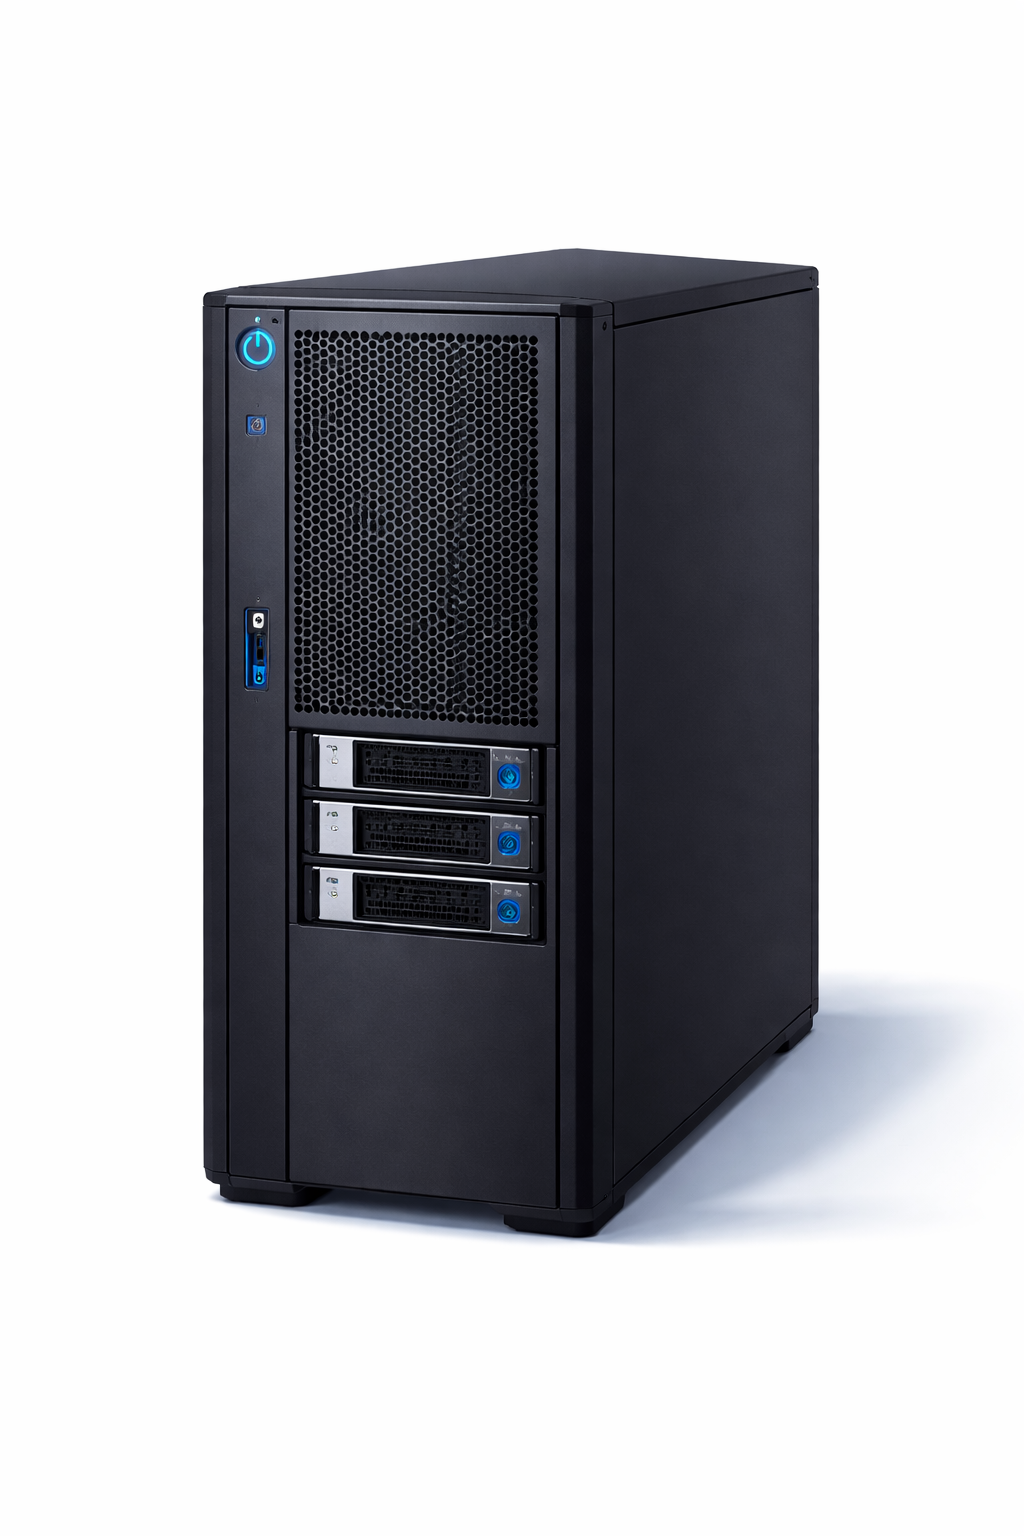
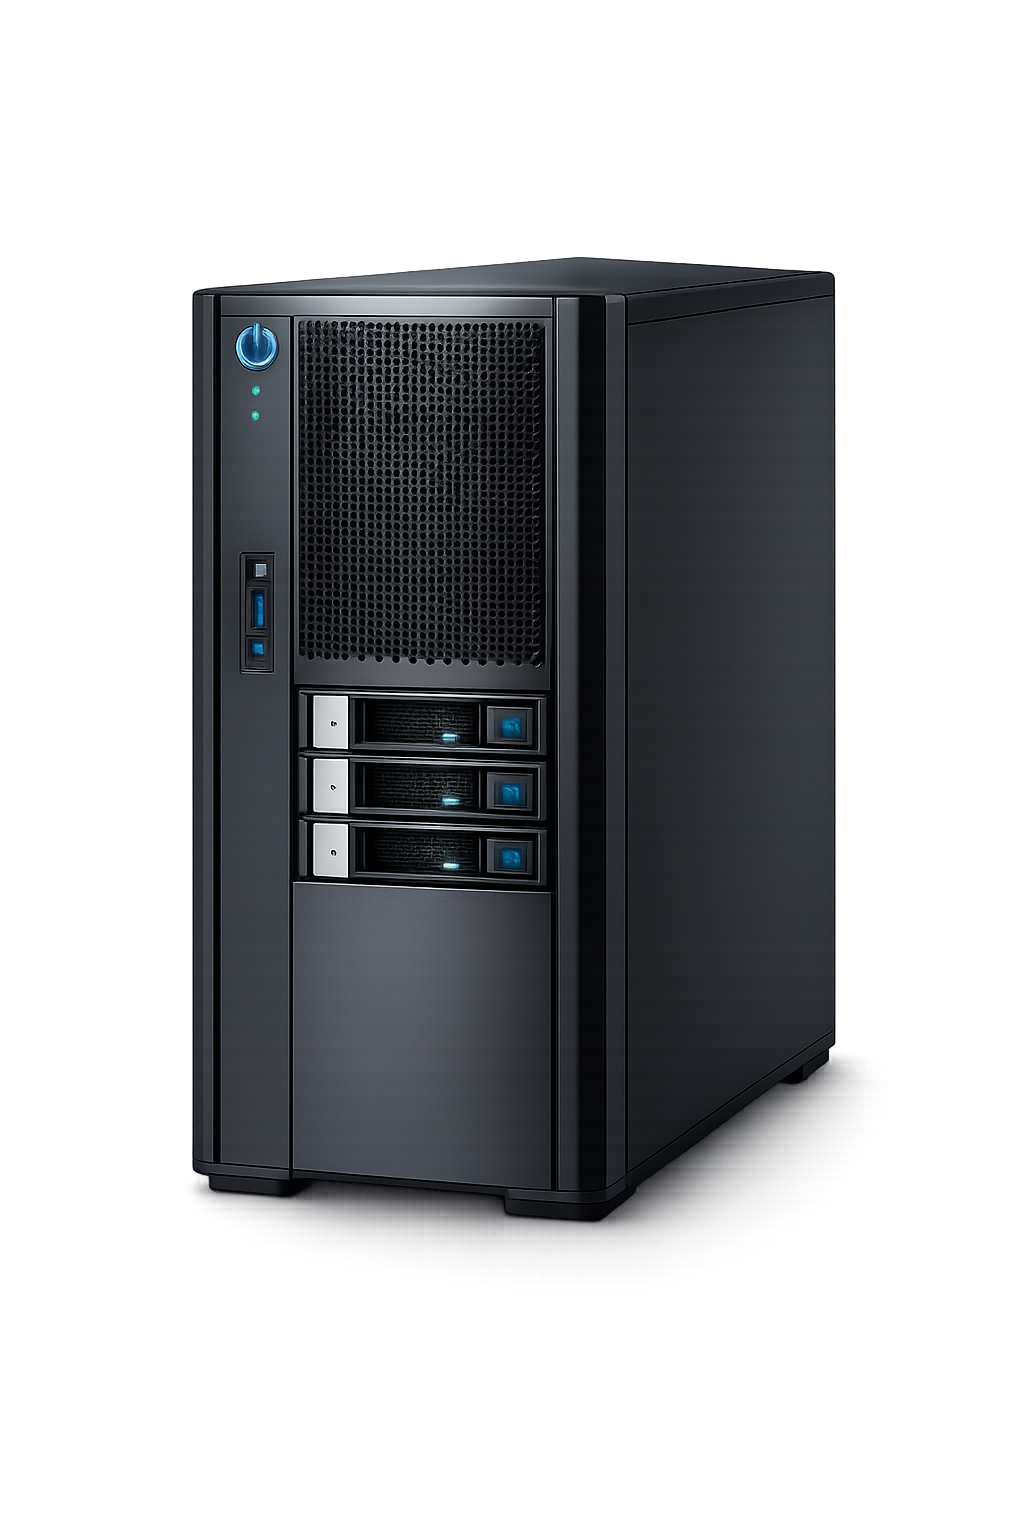
Refresh homepage hero and simplify inner pages

Changed region(s): [[0.1875, 0.1562, 0.9688, 0.8125]]

diff --git a/src/components/Hero.tsx b/src/components/Hero.tsx
@@ -3,10 +3,12 @@
 import Link from 'next/link';
 import { motion } from 'framer-motion';
 import Image from 'next/image';
+import React from 'react';
 
 interface HeroProps {
-  title: string;
+  title: React.ReactNode;
   description?: string;
+  showImage?: boolean;
   cta?: {
     label: string;
     href: string;
@@ -26,47 +28,49 @@ const itemVariants = {
   visible: { opacity: 1, y: 0, transition: { duration: 0.8 } },
 };
 
-export function Hero({ title, description, cta }: HeroProps) {
+export function Hero({ title, description, showImage = false, cta }: HeroProps) {
   return (
     <section
       className="relative w-full overflow-hidden"
       style={{ height: '100vh', backgroundColor: '#ffffff' }}
     >
-      {/* Image — right side, no background, blends with page */}
-      <motion.div
-        className="absolute right-0 top-0 h-full"
-        style={{ width: '50%' }}
-        initial={{ opacity: 0 }}
-        animate={{ opacity: 1 }}
+      {/* Barbell — home page only */}
+      {showImage && <motion.div
+        className="absolute right-[-120px] top-1/2 -translate-y-[42%]"
+        style={{ width: 'clamp(620px, 48vw, 980px)' }}
+        initial={{ opacity: 0, x: 30 }}
+        animate={{ opacity: 1, x: 0 }}
         transition={{ duration: 1, delay: 0.4 }}
       >
         <Image
-          src="/server.png"
-          alt="Hero visual"
-          fill
-          className="object-contain object-center"
+          src="/home.png"
+          alt="Barbell"
+          width={1600}
+          height={900}
           priority
-          style={{ backgroundColor: '#ffffff' }}
+          className="w-full h-auto block"
         />
-      </motion.div>
+      </motion.div>}
 
       {/* Text — left side */}
-      <div className="relative z-10 h-full flex items-center" style={{ paddingLeft: '8%' }}>
+      <div className="relative z-10 h-full flex items-center" style={{ paddingLeft: '10%', paddingBottom: '20%' }}>
         <motion.div
           variants={containerVariants}
           initial="hidden"
           animate="visible"
           className="flex flex-col"
-          style={{ maxWidth: '45%' }}
+          style={{ maxWidth: '60%' }}
         >
           <motion.h1
             variants={itemVariants}
             className="font-black uppercase text-[#0a0a0a]"
             style={{
               fontFamily: 'var(--font-montserrat)',
-              fontSize: 'clamp(48px, 5.5vw, 80px)',
-              lineHeight: 1.05,
-              marginBottom: '40px',
+              fontSize: 'clamp(44px, 4.5vw, 72px)',
+              fontWeight: 800,
+              lineHeight: 1.08,
+              letterSpacing: '-0.02em',
+              marginBottom: '28px',
             }}
           >
             {title}
@@ -81,17 +85,40 @@ export function Hero({ title, description, cta }: HeroProps) {
               {description}
             </motion.p>
           )}
+          
+          <motion.p
+            variants={itemVariants}
+            className="text-[#0a0a0a]/70"
+            style={{
+              fontFamily: 'var(--font-montserrat)',
+              fontSize: 'clamp(16px, 1.2vw, 20px)',
+              lineHeight: 1.5,
+              maxWidth: '520px',
+              marginTop: '8px',
+              marginBottom: '32px',
+            }}
+          >
+            Exploring data, DevOps, and machine learning through hands-on projects.
+          </motion.p>
 
           {cta && (
-            <motion.div variants={itemVariants}>
-              <Link href={cta.href} className="inline-block group" style={{ fontFamily: 'var(--font-poppins)' }}>
-                <span className="text-base font-semibold text-[#0a0a0a] group-hover:text-[#023059] transition-colors">
-                  {cta.label}
-                </span>
-                <div
-                  className="mt-1 h-[3px] w-8"
-                  style={{ background: 'linear-gradient(90deg, #1C99FE, #7644FF, #ed1a7a)' }}
-                />
+            <motion.div variants={itemVariants} className="flex items-center">
+              <Link
+                href={cta.href}
+                className="px-6 py-3 rounded-xl text-white font-medium shadow-sm transition-all duration-200"
+                style={{
+                  fontFamily: 'var(--font-poppins)',
+                  background: 'linear-gradient(90deg, #4f46e5, #ec4899)',
+                }}
+              >
+                {cta.label}
+              </Link>
+              <Link
+                href="/contact"
+                className="ml-4 text-[#0a0a0a] font-medium underline-offset-4 hover:underline"
+                style={{ fontFamily: 'var(--font-poppins)' }}
+              >
+                Let&apos;s Talk →
               </Link>
             </motion.div>
           )}

diff --git a/src/app/about/page.tsx b/src/app/about/page.tsx
@@ -1,4 +1,4 @@
-import { Navbar, Hero, Footer } from '@/components';
+import { Navbar, Footer } from '@/components';
 
 export const metadata = {
   title: 'About | Portfolio',
@@ -9,12 +9,6 @@ export default function About() {
   return (
     <main className="min-h-screen bg-white">
       <Navbar />
-
-      <Hero
-        title="About Me"
-        subtitle="Get to Know Me"
-        description="Designer and developer with a passion for creating beautiful, functional digital experiences."
-      />
 
       <section className="py-20 md:py-24 px-4 sm:px-6 lg:px-8">
         <div className="max-w-4xl mx-auto">

diff --git a/src/app/contact/page.tsx b/src/app/contact/page.tsx
@@ -1,4 +1,4 @@
-import { Navbar, Hero, Footer } from '@/components';
+import { Navbar, Footer } from '@/components';
 
 export const metadata = {
   title: 'Contact | Portfolio',
@@ -9,12 +9,6 @@ export default function Contact() {
   return (
     <main className="min-h-screen bg-white">
       <Navbar />
-
-      <Hero
-        title="Get in Touch"
-        subtitle="Contact"
-        description="I'd love to hear about your project. Reach out and let's start a conversation."
-      />
 
       <section className="py-20 md:py-24 px-4 sm:px-6 lg:px-8">
         <div className="max-w-3xl mx-auto">

diff --git a/src/app/projects/page.tsx b/src/app/projects/page.tsx
@@ -1,4 +1,4 @@
-import { Navbar, Hero, ProjectCard, Footer } from '@/components';
+import { Navbar, ProjectCard, Footer } from '@/components';
 
 export const metadata = {
   title: 'Projects | Portfolio',
@@ -48,12 +48,6 @@ export default function Projects() {
   return (
     <main className="min-h-screen bg-white">
       <Navbar />
-
-      <Hero
-        title="Featured Projects"
-        subtitle="My Work"
-        description="A selection of recent projects showcasing my approach to design and development."
-      />
 
       <section className="py-20 md:py-24 px-4 sm:px-6 lg:px-8">
         <div className="max-w-6xl mx-auto">

diff --git a/src/app/page.tsx b/src/app/page.tsx
@@ -17,7 +17,7 @@ export default function Home() {
       description:
         'Modern e-commerce solution with advanced filtering, personalized recommendations, and seamless checkout. Built with performance and conversion optimization in mind.',
       tags: ['Development', 'React', 'Commerce'],
-      image: 'https://images.unsplash.com/photo-1460925895917-adf4e2d7c0f0?w=1200&h=600&fit=crop',
+      image: 'https://images.unsplash.com/photo-1556742049-0cfed4f6a45d?w=1200&h=600&fit=crop',
       href: '#',
     },
     {
@@ -37,7 +37,8 @@ export default function Home() {
 
       {/* Hero Section */}
       <Hero
-        title="Bold ideas for modern digital."
+        title={<>Building strength through data, <br />code  & systems.</>}
+        showImage
         cta={{ label: 'View Work', href: '#projects' }}
       />
 

diff --git a/src/components/Navbar.tsx b/src/components/Navbar.tsx
@@ -28,10 +28,10 @@ export function Navbar() {
         {/* Logo */}
         <Link
           href="/"
-          className="text-2xl font-black text-[#1f1f25] hover:text-[#023059] transition-colors"
+          className="text-5xl font-black text-[#1f1f25] hover:text-[#023059] transition-colors"
           style={{ fontFamily: 'var(--font-montserrat)' }}
         >
-          HW
+          WB
         </Link>
 
         {/* Desktop Menu */}